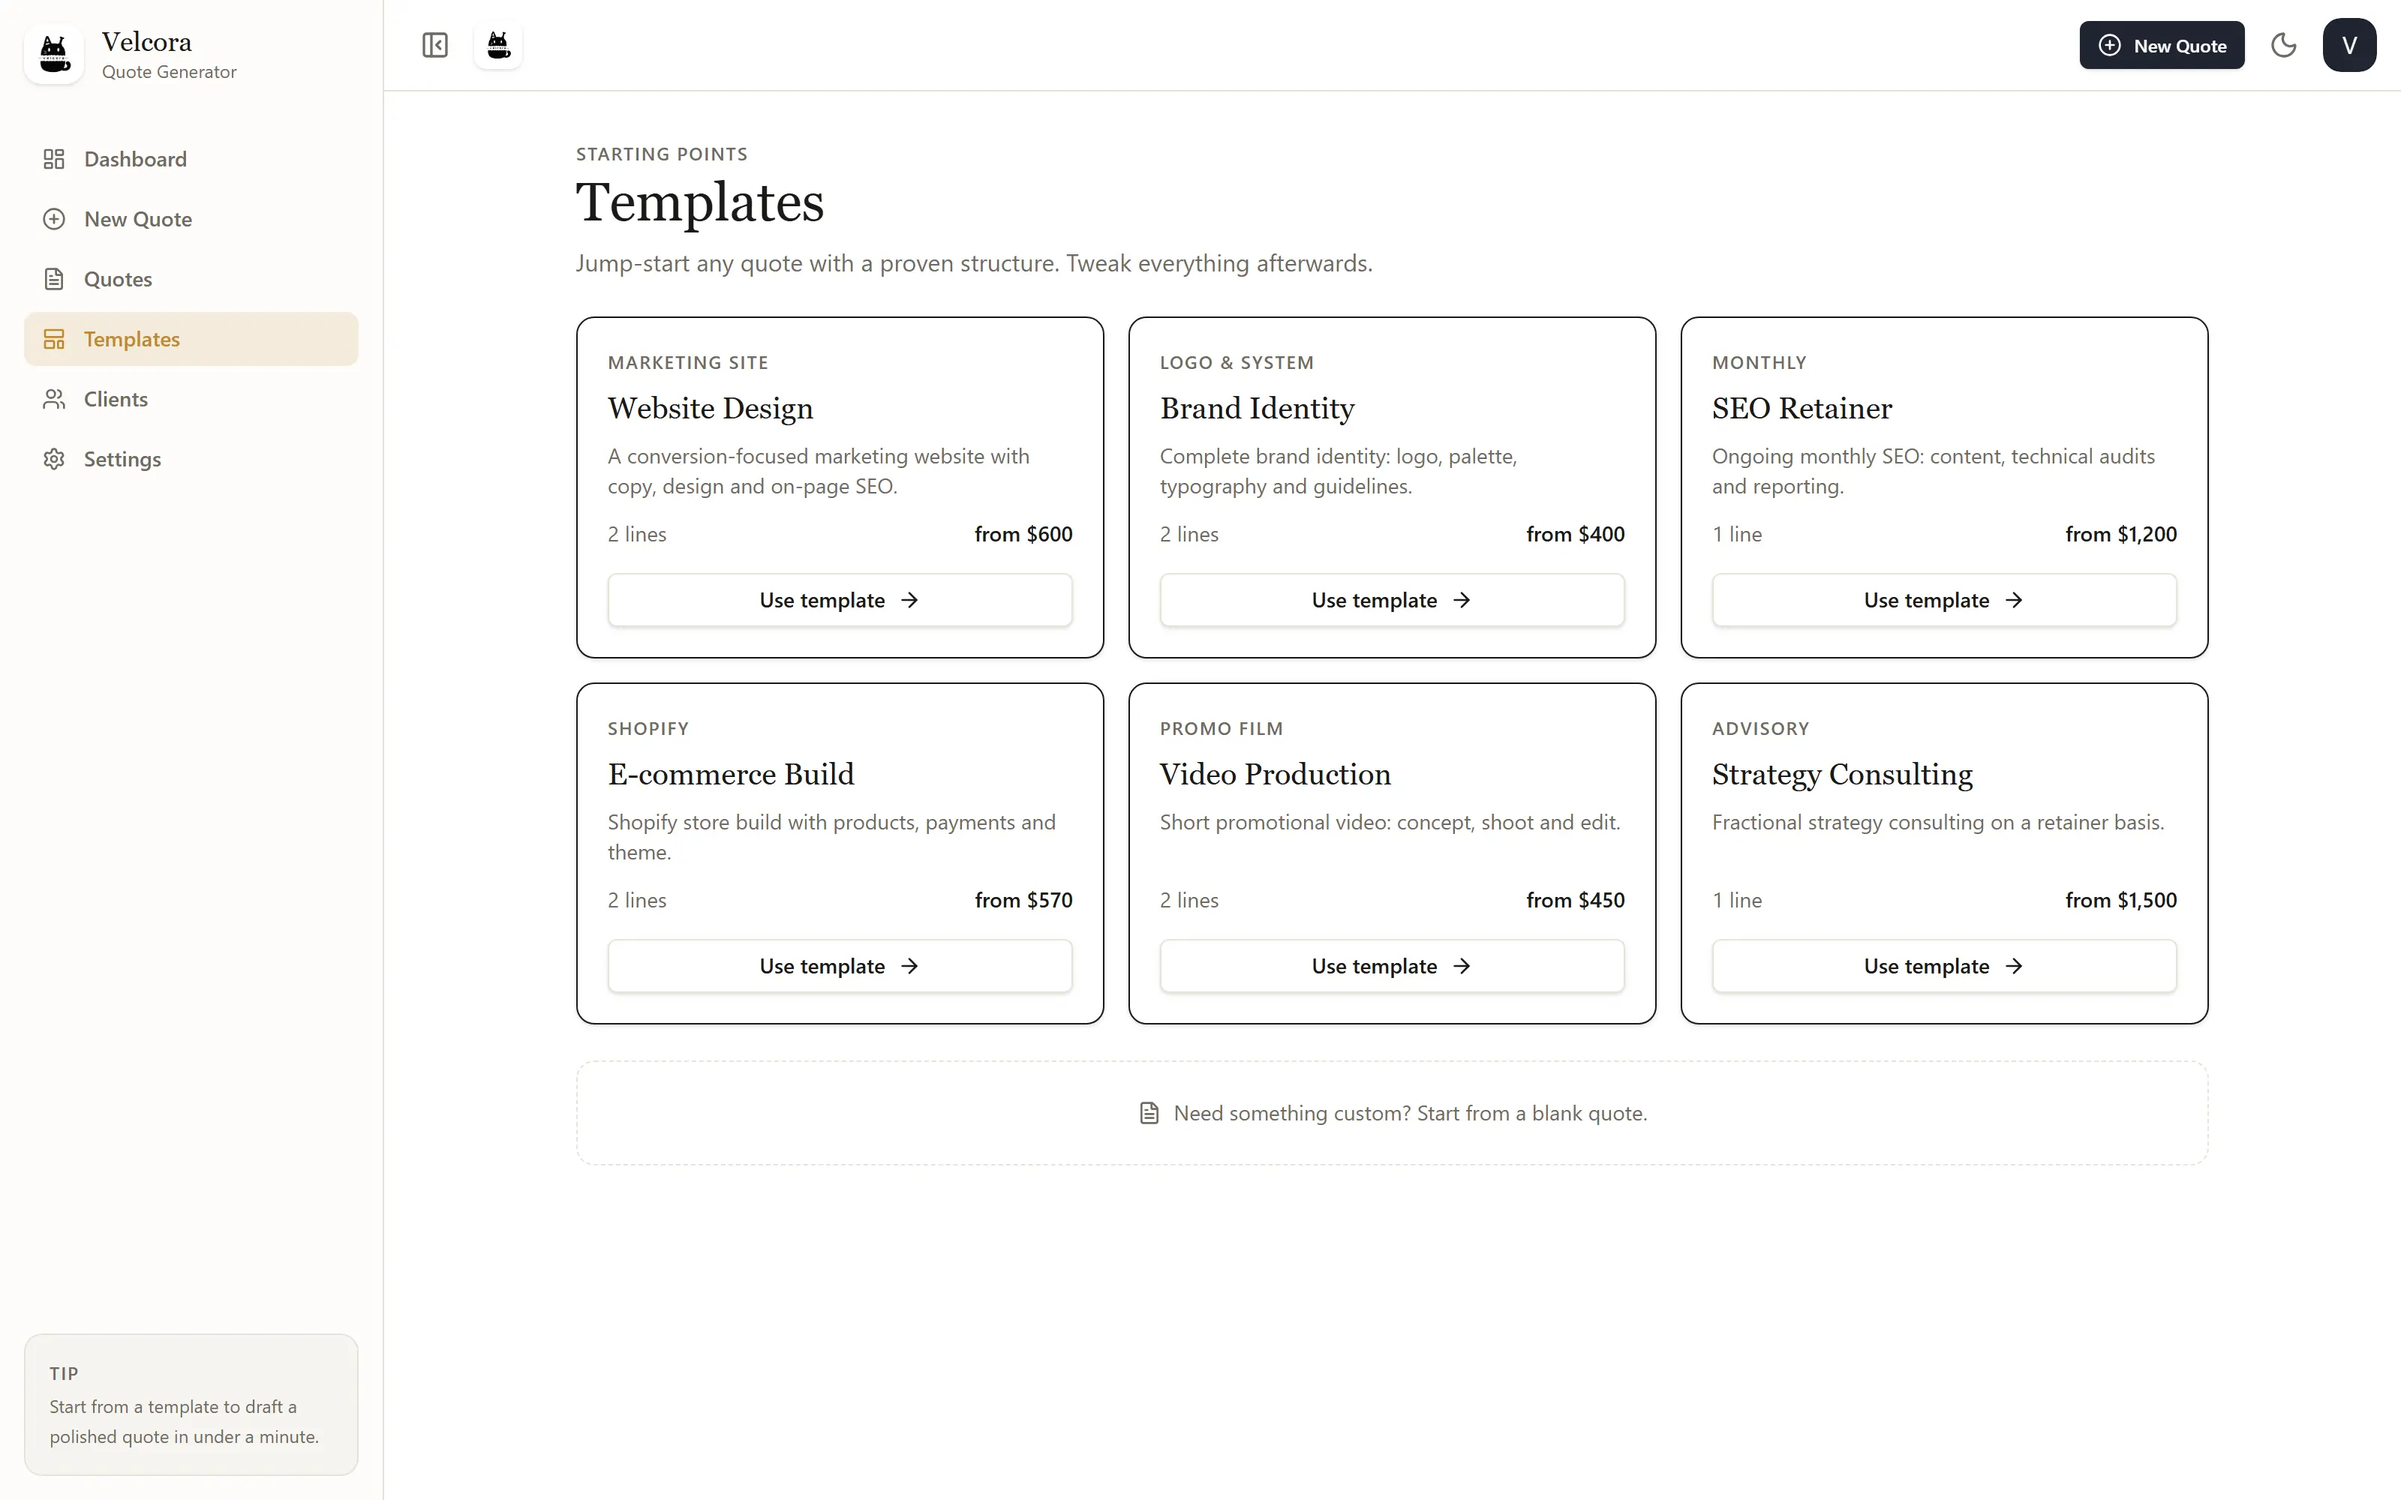
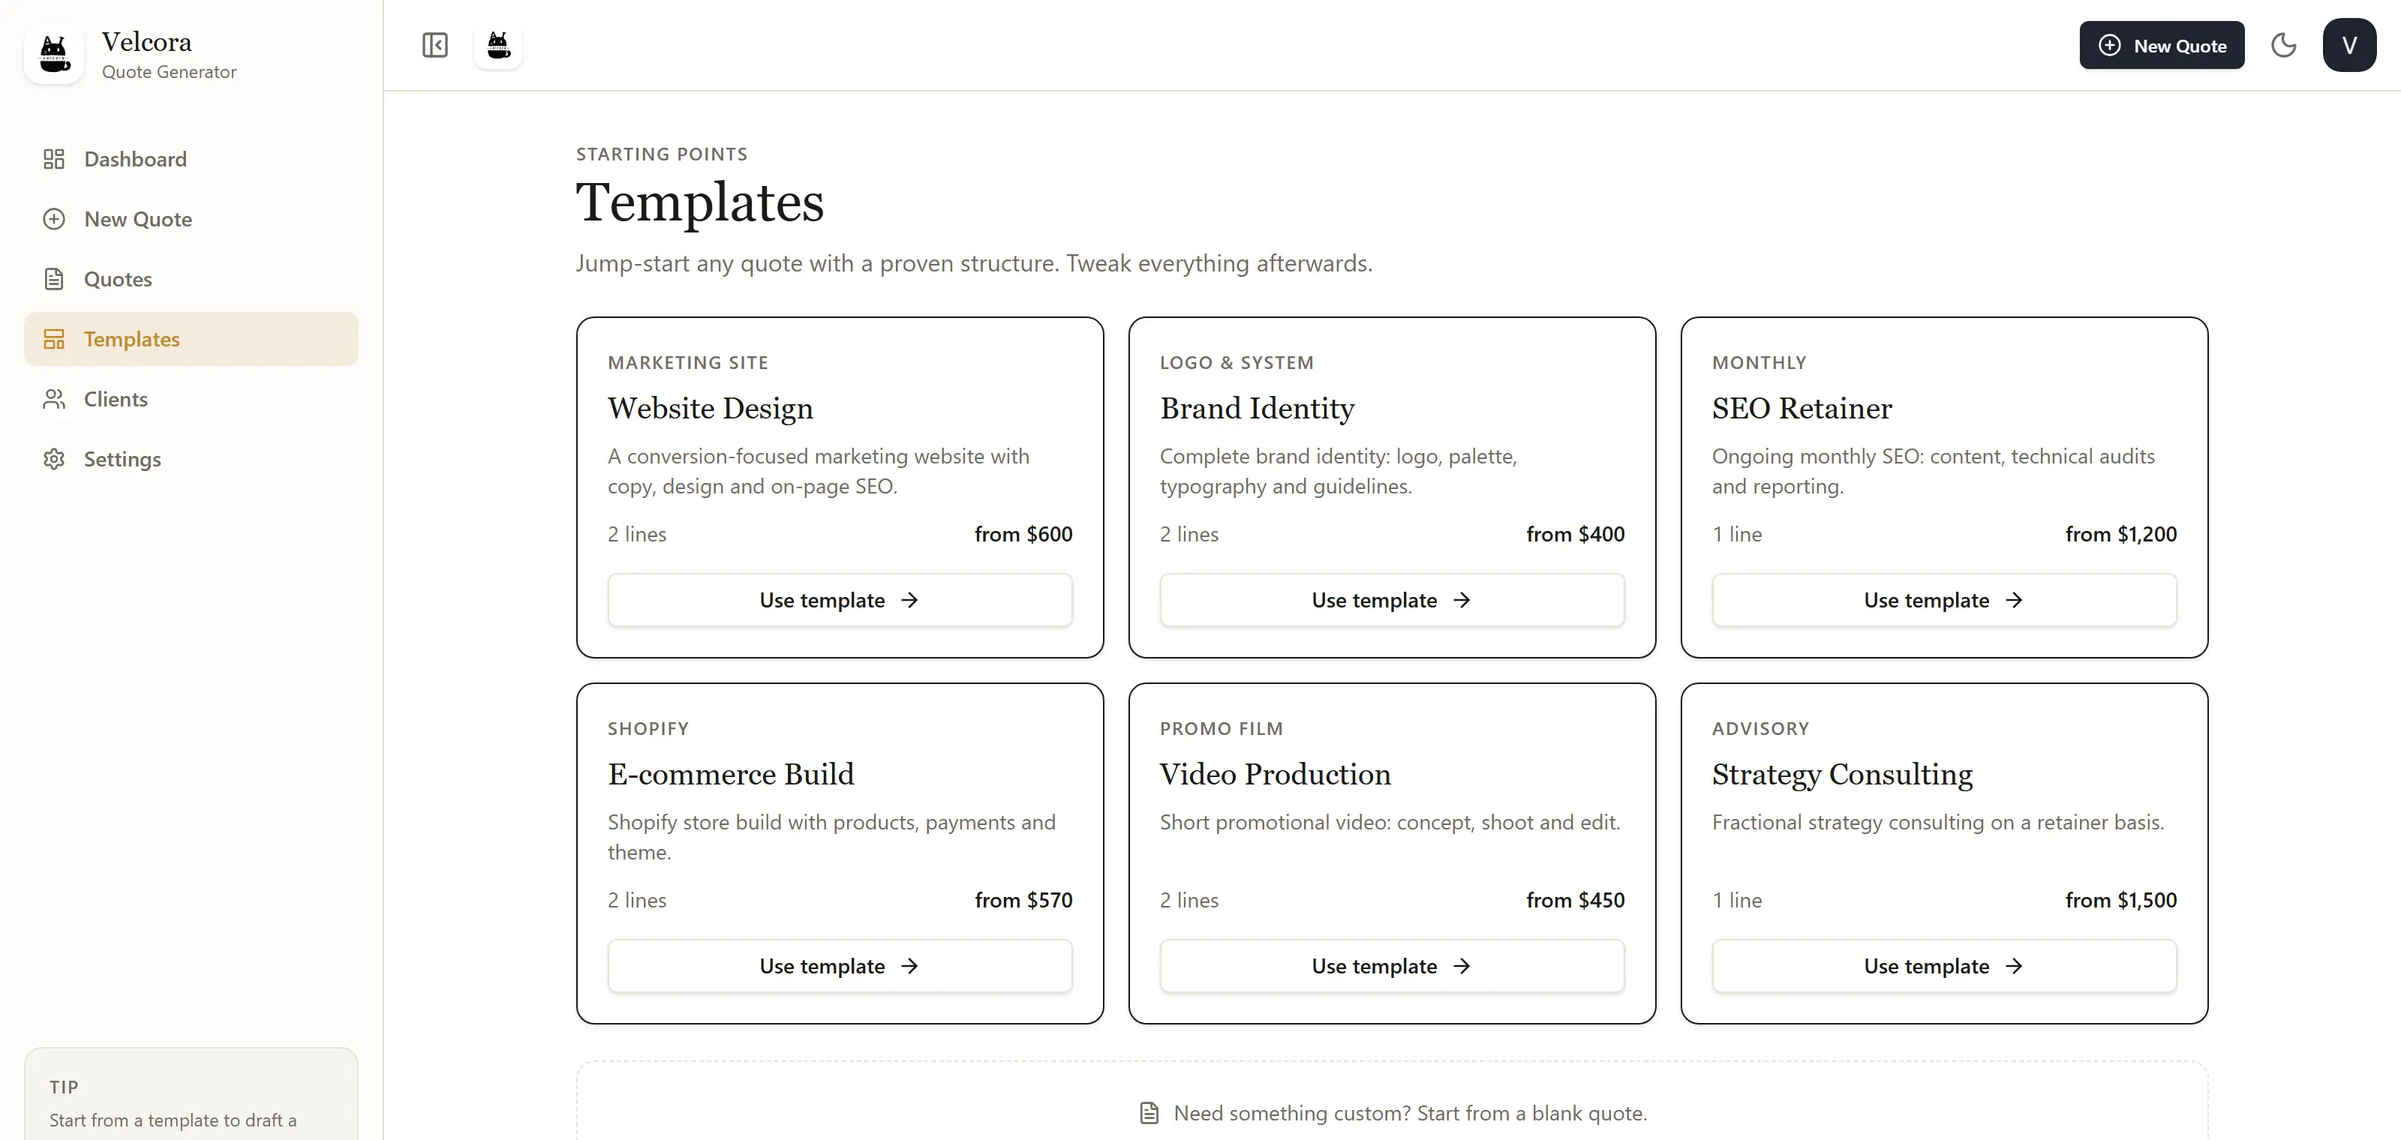
fix: aspect-matched screenshots fill slots with zero crop + 88vh card

diff --git a/src/sections/ProjectsSection.tsx b/src/sections/ProjectsSection.tsx
@@ -86,24 +86,24 @@ function ProjectCard({
   return (
     <div
       ref={containerRef}
-      className="relative h-[85vh] flex items-start justify-center sticky top-24 md:top-32"
+      className="relative h-[88vh] flex items-start justify-center sticky top-20 md:top-28"
     >
       <motion.div
         style={{ scale, top: `${index * 28}px` }}
         className="relative w-full max-w-6xl rounded-[40px] sm:rounded-[50px] md:rounded-[60px] border-2 border-[#D7E2EA] bg-[#0C0C0C] p-3 sm:p-5 md:p-6 h-full flex flex-col overflow-hidden"
       >
-        <div className="flex items-center justify-between gap-4 mb-3 shrink-0">
-          <span className="font-black text-[#D7E2EA] text-[clamp(2rem,7vw,110px)] leading-none">
+        <div className="flex items-center justify-between gap-4 mb-2 shrink-0">
+          <span className="font-black text-[#D7E2EA] text-[clamp(1.8rem,6vw,95px)] leading-none">
             {project.number}
           </span>
           <div className="flex items-center gap-4 sm:gap-6">
             <div className="text-right">
-              <p className="uppercase tracking-widest text-[#D7E2EA] text-xs sm:text-sm opacity-70">
+              <p className="uppercase tracking-widest text-[#D7E2EA] text-[0.65rem] sm:text-xs opacity-70">
                 {project.category}
               </p>
-              <h3 className="font-medium uppercase text-[#D7E2EA] text-[clamp(1rem,2.2vw,2.1rem)]">
+              <h2 className="font-medium uppercase text-[#D7E2EA] text-[clamp(0.95rem,1.8vw,1.6rem)]">
                 {project.name}
-              </h3>
+              </h2>
             </div>
           </div>
         </div>
